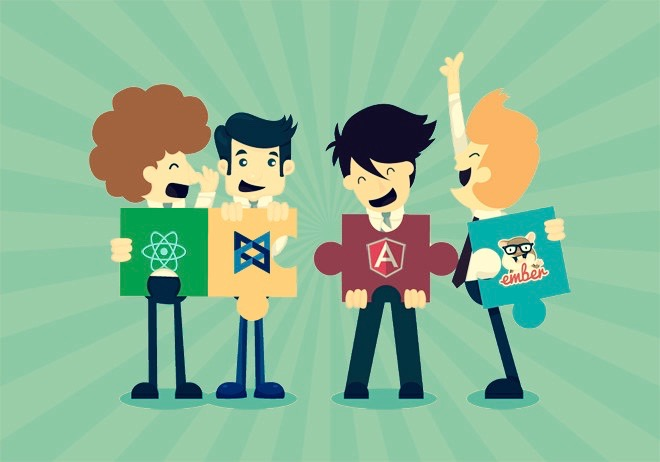
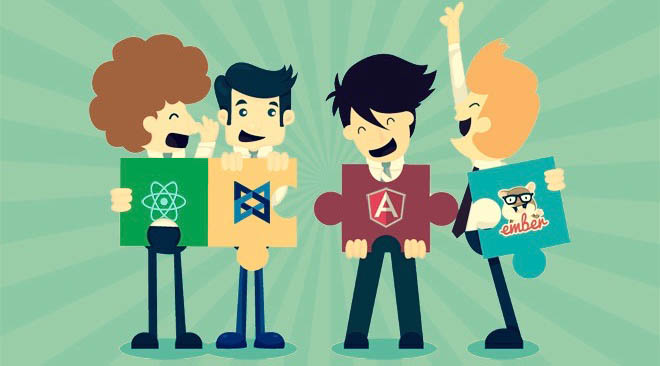
Update posts
Update posts and correct a image

Changed region(s): [[0.1212, 0.0, 0.8788, 0.9918], [0.4848, 0.5109, 0.5152, 0.541]]

diff --git a/_includes/footer.html b/_includes/footer.html
@@ -21,7 +21,6 @@
     </li>
     {% endif %}
 </ul>
-
 <!-- jQuery Infinite Scrolling -->
 <script src="https://ajax.googleapis.com/ajax/libs/jquery/2.1.4/jquery.min.js"></script>
 <script src='{{ site.baseurl }}assets/js/jquery.infinitescroll.min.js'></script>

diff --git a/_posts/2016-04-10-frameworksjs.md b/_posts/2016-04-10-frameworksjs.md
@@ -6,14 +6,14 @@ author: Rafael Pazini
 
 ![Frameworks JS](/assets/img/posts/frameworks.jpg)
 
-Atualmente encontro-me sem emprego, uma coisa que não está atrapalhando em nada minha vida, pois estou estudando e tudo mais. Porém, quero arrumar algo logo para poder colaborar em algum projeto grande, uma empresa legal, quem sabe até uma multinacional (por que não?!). Mas o que eu vejo hoje é que em todos os lugares pedem experiência com algum framework JS, se você nunca ouviu falar de algum deles amigo, está na hora de correr atrás!<!--more--> 
+Se você trabalha ou pelo menos tem uma pequena relação com a web, provavelmente já deve ter notado que nos últimos dois anos um dos assuntos mais comentados são os **Frameworks Js**. Se você nunca ouviu falar de algum deles amigo, esta na hora de correr atrás!<!--more--> 
 
-Frameworks existem várias no mercado, mas as que estão em alta, principalmente no meio front-end são elas: Angular, React, Ember e Backbone. Estas 4 são as frameworks JavaScript mais utilizadas no momento.
+Existem várias frameworks no mercado, mas as que estão em alta no meio front-end são elas: Angular, React, Ember e Backbone. Estas 4 são as frameworks JavaScript mais utilizadas no momento.
 
 Mas afinal, o que são estas frameworks?
 ---
 
-Elas agilizam o desenvolvimento de novas aplicações para web, evitam recarregamentos desnecessários de página, facilitam o data binding, organizam nossa arquitetura de desenvolvimento pois são baseadas em MVC *(mais um motivo para dizermos que elas facilitam a vida, organização é tudo...)*. 
+Elas agilizam o desenvolvimento de novas aplicações para web, evitam recarregamentos desnecessários de página, facilitam o data binding e organizam nossa arquitetura de desenvolvimento pois são baseadas em MVC *(mais um motivo para dizermos que elas facilitam a vida, organização é tudo...)*. 
 
 Você deve estar se perguntando o porquê de elas estarem sendo tão cobiçadas no mundo do desenvolvimento?! Em um resumo, podemos dizer que elas nos ajudam a criar uma aplicação com UI mais responsivas, ou seja, as aplicações se tornam cada vez mais atrativas para o uso. Já que com o uso destas frameworks, carregamentos podem ser feitos em blocos dispensando a atualização total da página ou a navegação para uma nova área.
 
@@ -24,22 +24,59 @@ Angular
 
 É feita e mantida pelo Google. Segundo a descrição que eles mesmo dão para sua framework ela da "super poderes" para seu HTML, já que para utilizar a mesma, você acrescenta algumas tags em seu html, é desta forma que os dados são processados pela framework.
 
-Nela temos uma das questões mais amadas da framework o "two-way data binding", que permite com que as informações sejam atualizadas tanto do View quanto do Model. Esta forma de implementação do data binding reduz a quantidade de código necessária para criar novas dynamic views.
+Nela temos uma das questões mais amadas da framework o "two-way data binding", que permite com que as informações sejam atualizadas tanto do View quanto do Model. Esta forma de implementação do data binding reduz a quantidade de código necessária para criar novas dynamic views. Mas ao mesmo tempo que ela "facilita a vida" pode dificultá-la também, já que alimentando sua aplicação de dois lugares vai complicar o debug e prejudicar a performance.
 
-A curva de aprendizado da mesma é um tanto quanto mais elevada, já que possui várias funções exclusivas do framework. As vezes lembra  algumas coisas de Java *(já que a mesma foi produzida por desenvolvedores Java, nada contra pois é uma das minhas linguagens favoritas)*.
+Falando em performance, dependendo da complexidade da aplicação que está sendo criada, o Angular se torna lento devido a sua arquitetura. Apesar disto ela pode ser uma boa opção para aplicações que não sejam muito grandes em que o problema com a lentidão não apareça. 
 
-Algumas vezes, dependendo da complexidade da aplicação que está sendo criada, o Angular se torna lenta devido a sua arquitetura, apesar disto ela pode ser uma boa opção para aplicações que não sejam muito grandes em que o problema com a lentidão não apareça. 
+A curva de aprendizado da mesma é um tanto quanto mais elevada, já que possui várias funções exclusivas do framework. Sua arquitetura tem algumas influências de Java *(já que a mesma foi produzida por desenvolvedores Java)*.
 
-A versão 2.0 do Angular está sendo produzida e eles prometem corrigir este problema com a lentidão em aplicações complexas, pois estão reestruturando totalmente a framework.
+Sua versão 2.0 está sendo produzida e eles prometem corrigir este problema com a lentidão em aplicações complexas, pois estão reestruturando totalmente a framework.
 
 Para aprender mais sobre o Angular, você pode visitar o site oficial do projeto 
-[AngularJs.org](https://angularjs.org/), lá você encontra até um curso grátis do disponibilizado pelo CodeSchool sobre a framework.
+[AngularJs.org](https://angularjs.org/), lá você encontra até um curso grátis do disponibilizado pelo CodeSchool sobre ele.
 
 Ember
 ---
 
 EmberJs é uma framework mantida pela comunidade, foi criada em 2011 por Yehuda Katz, que também fazia parte do core team de Rails. 
-Assim como o Angular tem uma auto descrição "uma framework para criar aplicações web ambiciosas" e da mesma maneira que Angular tem uma uma influência do Java, o Ember tem uma influência do Rails. 
+Assim como o Angular tem uma auto descrição "uma framework para criar aplicações web ambiciosas" e da mesma maneira que Angular tem uma uma influência do Java, o Ember tem uma influência do Rails *(como eu disse, o seu criador fez parte do core team do Rails)*. 
+
+Costumamos dizer que quando você trabalha com o Ember, você deve fazer as coisas do jeito dele. Quando você vai começar a criar um novo app a única coisa que precisa é do built-in, ali irão ficar as rotas, bibliotecas temporárias e tudo mais que você sempre tem que criar. Isso evita que você fique "recriando a roda" toda vez que começa uma nova aplicação, e sem perder tempo com isso você poderá se preocupar com as outras coisas que realmente serão importantes para o projeto.
+
+Os criadores do Ember disponibilizaram uma ferramenta*(command line tool)* que se chama [EmberCLI](http://ember-cli.com). Os desenvolvedores utilizam ela para minimizar CSS e JS, compilar o SASS entre outras coisas. Então se você já é desenvolvedor web deve estar se perguntando - Poxa, mas é um task runner? - Sim, exatamente. Ela faz o mesmo trabalho que o [Grunt](http://gruntjs.com) ou [Gulp](http://gulpjs.com) a única diferença é que foi desenvolvida para trabalhar com o Ember. Isso não significa que você deve trocar seu task runner atual por ela, mas caso ainda não tenha um de costume é interessante dar uma olhada neste.
+
+O Ember também implementa o "two-way data binding", porém de uma forma diferente do Angular. Não vou entrar muito em detalhes, já que o time de desenvolvimento anunciou que nas próximas versões da framework irá abandonar esta implementação. 
+
+Ela é uma excelente framework para trabalhar com projetos que variam de médios a grandes, existem algumas restrições que poderiam e irão ser melhoradas num futuro próximo - como a renderização server-side que atualmente não está 100%, mas os commits estão a todo vapor para melhorá-la.
+
+A melhor forma de entender mais sobre o Ember, é acessando seu próprio site [emberjs.com](http://emberjs.com). E para entender ainda mais sobre a mesma veja a página da [Comunidade](http://emberjs.com/community/), lá você vai encontrar todos os canais que os desenvolvedores usam para se comunicar e como interagir com eles, tirar dúvidas e quem sabe até colaborar com algum commit.
+
+React
+---
+
+Este é praticamente o "queridinho" do momento, o React foi criado em 2013 e é mantido pelo Facebook. Ele não tem nenhuma auto descrição ou algo do tipo, a única coisa que todos dizem e o facebook também é que o React é o V*(View)* do MVC.
+
+A coisa mais legal do react é que ele é extremamente rápido, o que diferencia ele das demais frameworks. O responsável por esta agilidade é o Virtual DOM, quando fazemos alguma alteração na aplicação ela é primeiro escrita no virtual DOM que compara os dados com os dados que existem no Real DOM e só depois atualiza os dados, mandando apenas o que foi alterado e não as informações completas. Isso aumenta e muito o desempenho da aplicação, já que as alterações no Real DOM são feitas quase que em segundo plano.
+
+Outra parte bastante interessante desta framework é o desenvolvimento em componentes. Você pode criar componentes e reutiliza-los quando e quantas vezes quiser, diminuindo muito o tamanho dos códigos que você irá escrever. Aliás, este é o primeiro pensamento que qualquer um deve ter quando começa a trabalhar com React - no site oficial da framework existe um [artigo](https://facebook.github.io/react/docs/thinking-in-react.html) sobre isto - quebrar o layout em partes para começar a desenvolver a aplicação.
+
+Além de rápido, o React é fácil de se aprender já que é praticamente JavaScript puro*(se você é familiar com JS vá em frente)*. Existe também o [React Native](http://facebook.github.io/react-native/) que permite criar aplicações para iOS e Android usando react.
+
+Por ser a framework mais nova, o React está sempre em atualização. Então é importante ficar sempre de olho na documentação e nos blogs do Facebook onde todas as atualizações são postadas.
+
+No site oficial do [ReactJs](https://facebook.github.io/react/index.html) além de toda a documentação e do passo a passo para iniciar a trabalhar com ele, você irá encontrar um pequeno tutorial para ir se familiarizando com a framework.
+
+Backbone
+---
+
+
+
+
+
+
+
+
+ 
 
 
 

diff --git a/index.md b/index.md
@@ -6,18 +6,20 @@ class: home
 
 O universo das tecnologias é realmente fascinante, e é por isso que nós profissionais da área estamos sempre buscando coisas novas e ajudando o mundo open source.
 
-Não dá pra negar que línguas estrangeiras estão muito presentes no mundo contemporâneo, em especial a norte americano, principalmente no universo virtual. Foi a partir daí que surgiu a iniciativa de criar um blog em português, com linguagem simples e acessível.
+Não dá pra negar que línguas estrangeiras estão muito presentes no mundo contemporâneo, em especial a norte americana, principalmente no universo virtual dos 'programadores'. Foi a partir daí que surgiu a ideia de criar um blog em português, com linguagem simples e acessível.
 
-Como qualquer apresentação, vamos as formalidades:
+Como qualquer apresentação, vamos as formalidades. Quem sou eu?
 
 *   Nome: Rafael Pazini
 *   Ocupação: Estudante de Ciência da Computação
+*   Paixões: Open Source, desenvolvimento web e mobile
 *   Idade: 21 anos;
 
-Como objetivos em andamento, contribuo com comunidades open sources, como [Mozilla][1], mantenho alguns projetos no [Github][2] e terminei minha Iniciação Cientifica.
+Como objetivos em andamento, contribuo com comunidades open sources, como [Mozilla][1] e mantenho alguns projetos no [Github][2]. Se quiser saber um pouco mais, fique a vontade para olhar meu [CV][3] ou entrar em contato comigo
 
-Aos poucos vamos melhorando e deixando cada vez mais legal e acessível ;D
+Aos poucos vamos melhorando e deixando o blog cada vez melhor ;D
 
 
 [1]: https://developer.mozilla.org/en-US/docs/MDN/Contribute "Mozilla Contribute"
 [2]: https://github.com/rflpazini "Github Rafael Pazini"
+[3]: https://rflpazini.com/resume.pdf "CV"
